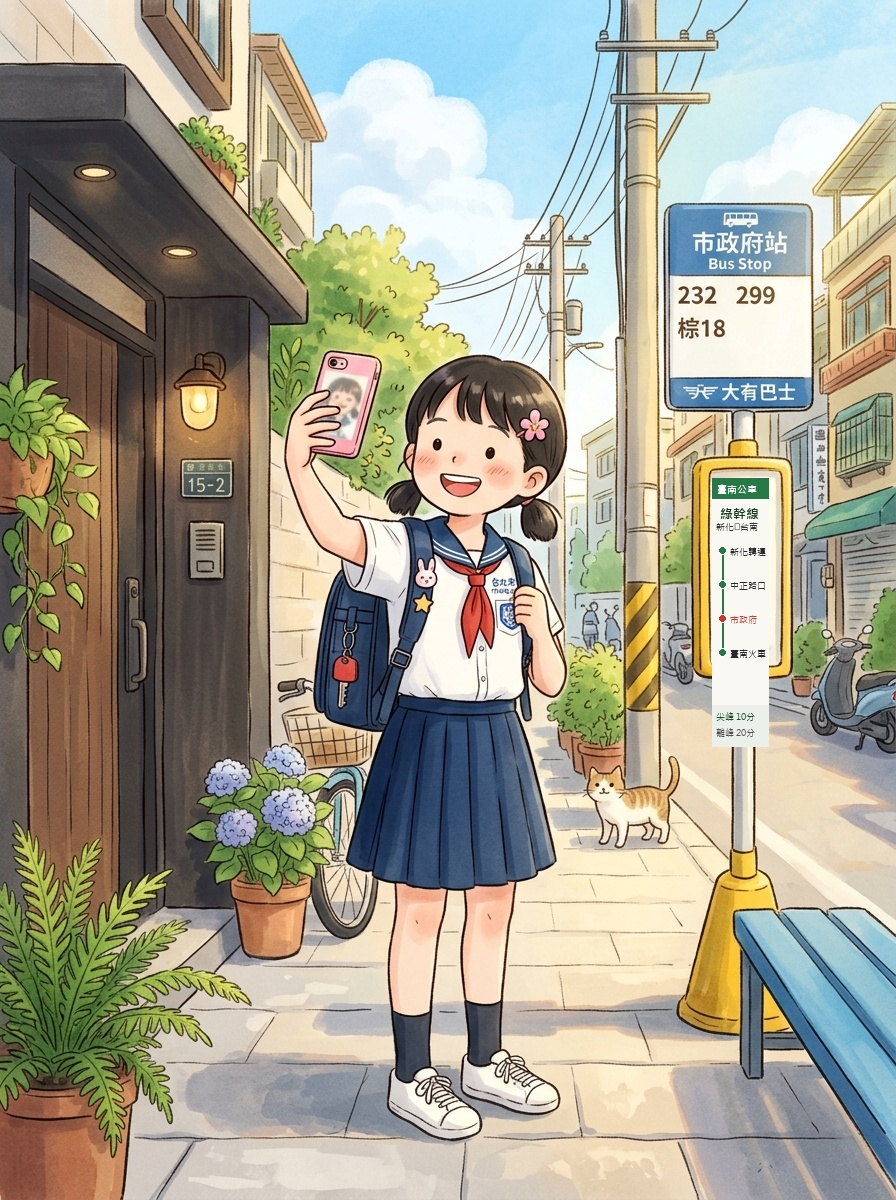
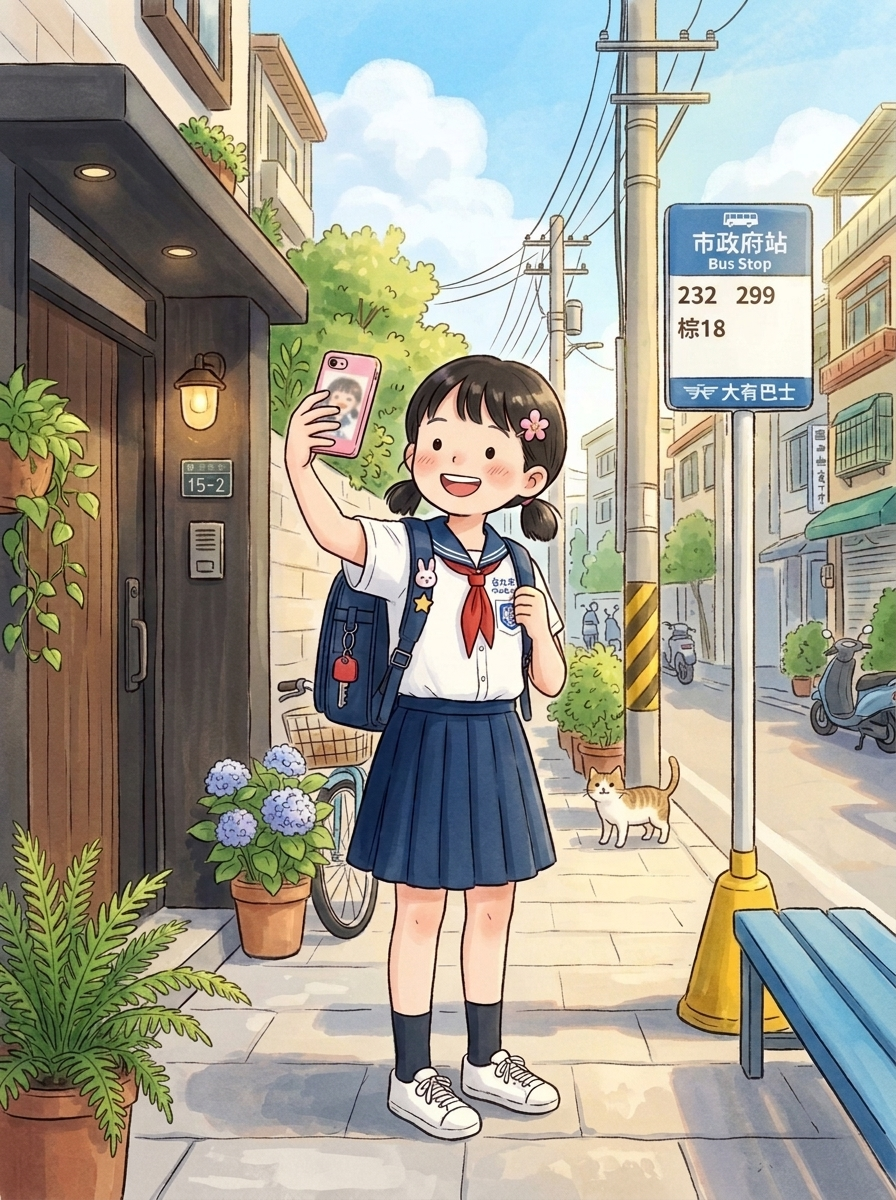
fix(story): 完全移除公車站牌立柱上的突兀方塊白牌，還原乾淨筆直金屬立柱

diff --git a/units/g5-cyber-safety/index.html b/units/g5-cyber-safety/index.html
@@ -327,7 +327,7 @@
         box.appendChild(h('p', 'hint', '小美在放學路上發了一張自拍限動。她以為沒寫名字就很安全，你能找出 4 個洩漏個資的地方點點看嗎？'));
         box.appendChild(score);
         var two = h('div', 'g-two'), ph = h('div', 'insta-story');
-        ph.innerHTML = '<img src="assets/xiaomei_story_v1.jpg?v=20261023c" alt="小美的自拍限動" class="story-img">' +
+        ph.innerHTML = '<img src="assets/xiaomei_story_v1.jpg?v=20261023e" alt="小美的自拍限動" class="story-img">' +
           '<div class="story-bars"><div class="bar-seg active"></div><div class="bar-seg"></div></div>' +
           '<div class="story-header"><div class="story-user"><div class="story-avatar">👧</div><div class="story-name">小美</div><div class="story-time">剛剛</div></div></div>' +
           '<div class="spot spot-tag" data-p="3" tabindex="0" role="button" aria-label="打卡位置和時間">📍 台南市新化區・剛剛</div>' +
